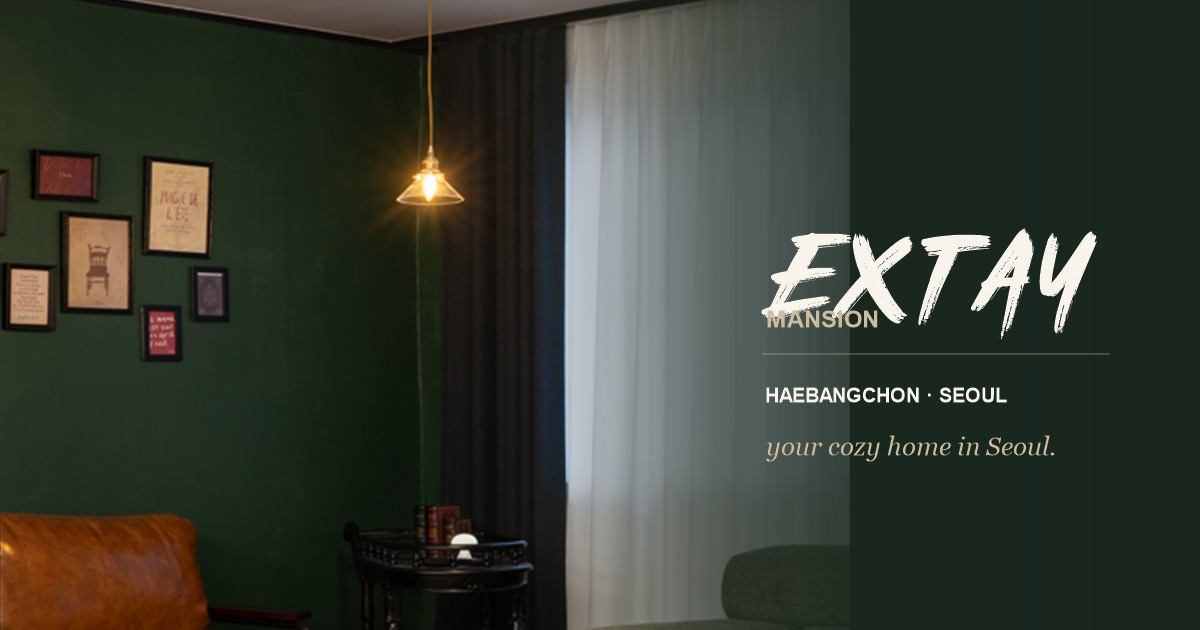
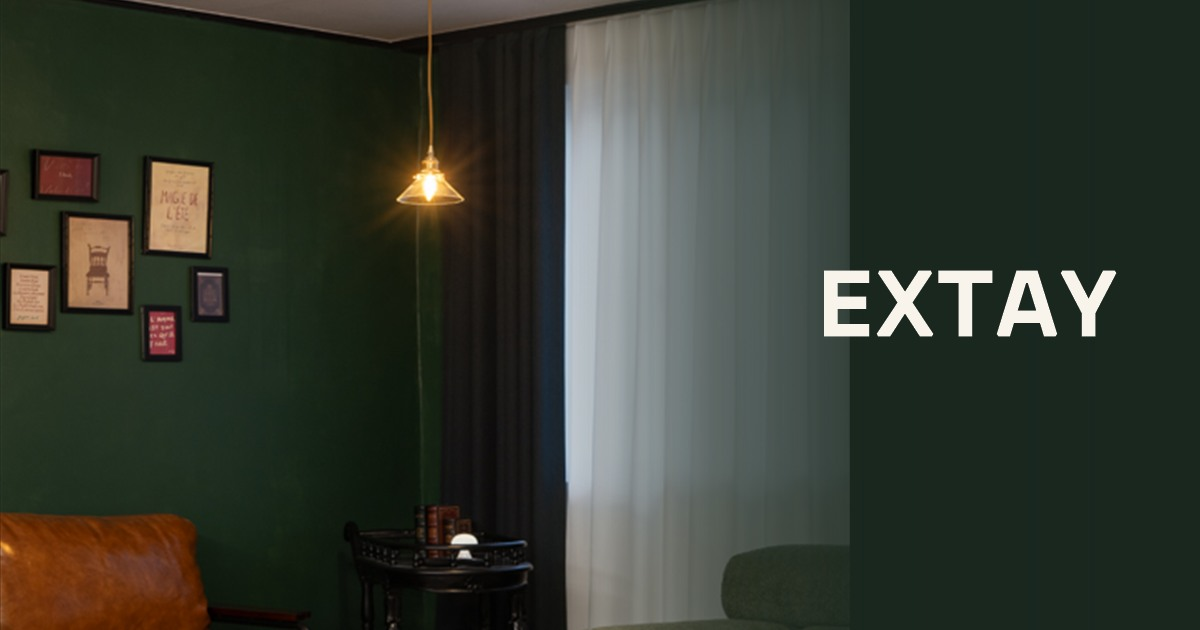
Match social preview branding to site

Changed region(s): [[0.6167, 0.3619, 0.925, 0.573], [0.6167, 0.6032, 0.8325, 0.6635], [0.6475, 0.6937, 0.8942, 0.7238]]

diff --git a/guide-extay.html b/guide-extay.html
@@ -12,8 +12,8 @@
   <meta property="og:title" content="익스테이 맨션 해방촌 모바일 가이드" />
   <meta property="og:description" content="익스테이 맨션 해방촌 숙박 안내 모바일 가이드" />
   <meta property="og:url" content="https://extay-release.vercel.app/guide-extay" />
-  <meta property="og:image" content="https://extay-release.vercel.app/assets/extay/social/extay-mansion-haebangchon-preview.jpg?v=20260720" />
-  <meta property="og:image:secure_url" content="https://extay-release.vercel.app/assets/extay/social/extay-mansion-haebangchon-preview.jpg?v=20260720" />
+  <meta property="og:image" content="https://extay-release.vercel.app/assets/extay/social/extay-mansion-haebangchon-preview.jpg?v=20260720-2" />
+  <meta property="og:image:secure_url" content="https://extay-release.vercel.app/assets/extay/social/extay-mansion-haebangchon-preview.jpg?v=20260720-2" />
   <meta property="og:image:type" content="image/jpeg" />
   <meta property="og:image:width" content="1200" />
   <meta property="og:image:height" content="630" />
@@ -21,7 +21,7 @@
   <meta name="twitter:card" content="summary_large_image" />
   <meta name="twitter:title" content="익스테이 맨션 해방촌 모바일 가이드" />
   <meta name="twitter:description" content="익스테이 맨션 해방촌 숙박 안내 모바일 가이드" />
-  <meta name="twitter:image" content="https://extay-release.vercel.app/assets/extay/social/extay-mansion-haebangchon-preview.jpg?v=20260720" />
+  <meta name="twitter:image" content="https://extay-release.vercel.app/assets/extay/social/extay-mansion-haebangchon-preview.jpg?v=20260720-2" />
   <meta name="twitter:image:alt" content="초록색 벽과 따뜻한 조명의 익스테이 맨션 해방촌 거실" />
   <link rel="preconnect" href="https://fonts.googleapis.com">
   <link rel="preconnect" href="https://fonts.gstatic.com" crossorigin>
